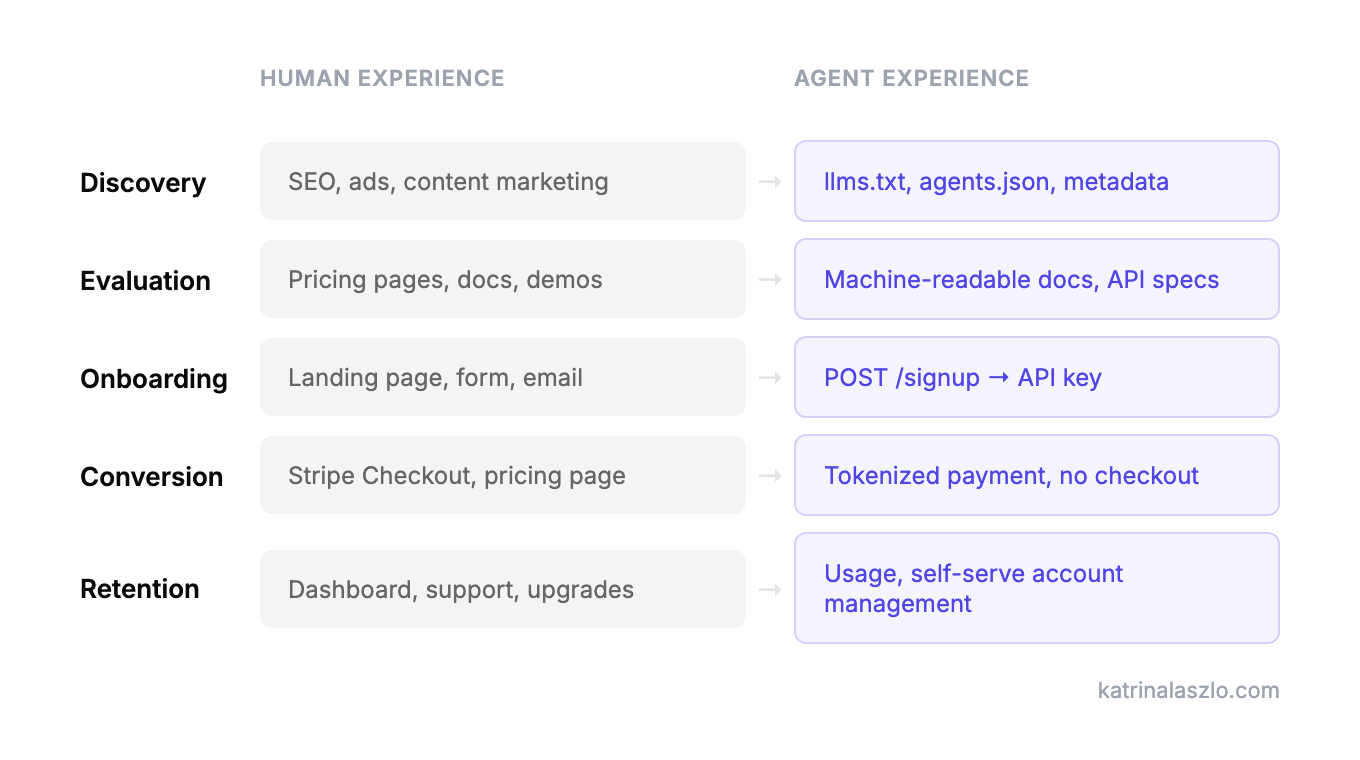
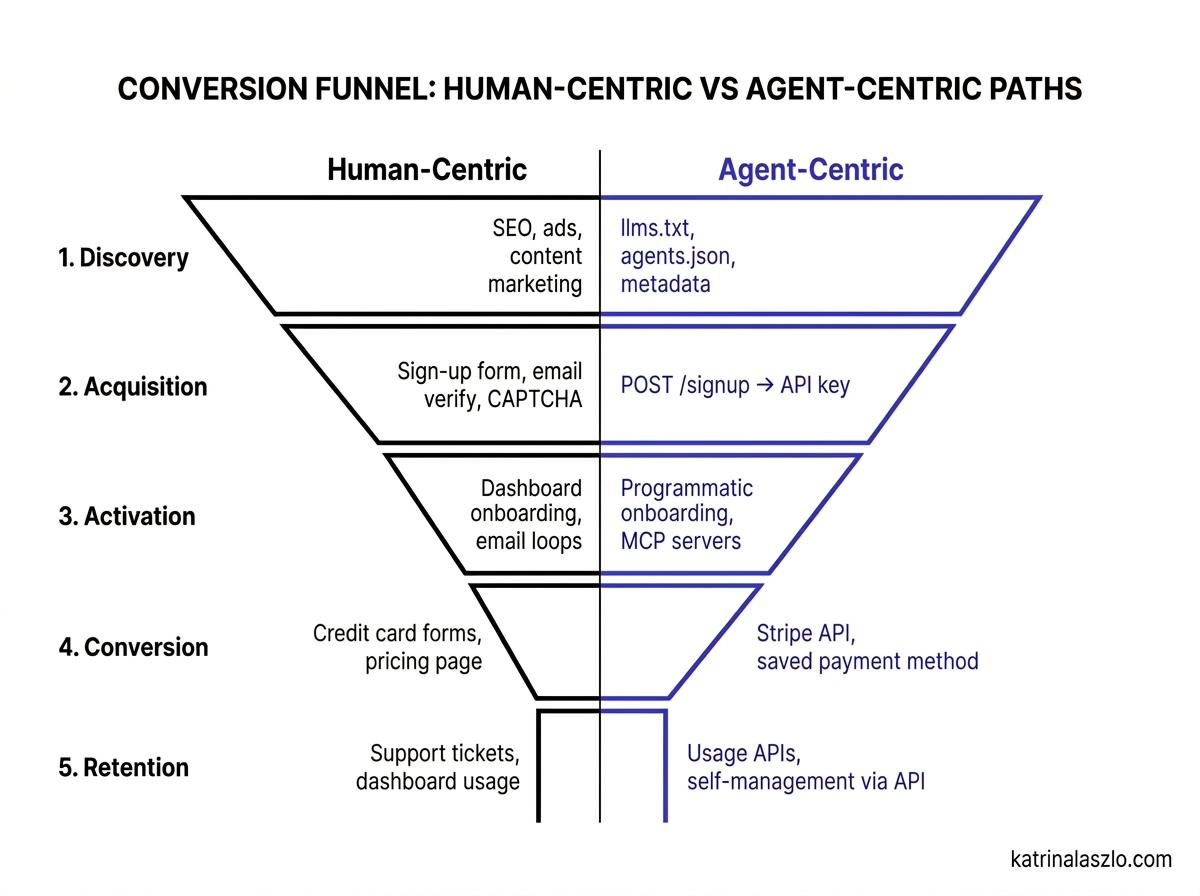
tighten Part 1: cut B2C, rewrite as connected prose, update funnel image
Removed B2C walkthrough and journey shift section to focus on B2B.
Rewrote choppy AI-style sentences as flowing prose with transitions.
Added Netlify/Stripe/Cloudflare data showing agents moving beyond discovery.
Updated funnel image to 5-stage version (Discovery through Retention).
Replaced "tokenized payments" with "Stripe API, saved payment method".

diff --git a/public/blog/agent-self-serve.html b/public/blog/agent-self-serve.html
@@ -4,11 +4,11 @@
 <meta charset="UTF-8">
 <meta name="viewport" content="width=device-width, initial-scale=1.0">
 <title>The Human Behind the Agent — Kat Laszlo</title>
-<meta name="description" content="Agents are reshaping how people buy, but the human is still in the loop. Here's what the experience actually looks like right now, for consumers and for B2B.">
-<meta name="ai:token-count" content="1440">
+<meta name="description" content="Agents are already reshaping how B2B buyers research and choose vendors. What does the self-serve experience need to look like when an agent is the buyer?">
+<meta name="ai:token-count" content="1000">
 <meta name="ai:page-type" content="article">
 <meta property="og:title" content="The Human Behind the Agent">
-<meta property="og:description" content="Agents are reshaping how people buy, but the human is still in the loop. Here's what the experience actually looks like right now, for consumers and for B2B.">
+<meta property="og:description" content="Agents are already reshaping how B2B buyers research and choose vendors. What does the self-serve experience need to look like when an agent is the buyer?">
 <meta property="og:type" content="article">
 <meta property="og:url" content="https://katrinalaszlo.com/blog/agent-self-serve">
 <meta property="og:image" content="/blog/og/agent-self-serve.svg">
@@ -19,7 +19,7 @@
 <meta name="twitter:card" content="summary_large_image">
 <meta name="twitter:site" content="@Katlaszlo">
 <meta name="twitter:title" content="The Human Behind the Agent">
-<meta name="twitter:description" content="Agents are reshaping how people buy, but the human is still in the loop. Here's what the experience actually looks like right now, for consumers and for B2B.">
+<meta name="twitter:description" content="Agents are already reshaping how B2B buyers research and choose vendors. What does the self-serve experience need to look like when an agent is the buyer?">
 <meta name="twitter:image" content="/blog/og/agent-self-serve.svg">
 <link rel="alternate" type="application/rss+xml" title="Kat Laszlo's Blog" href="/blog/feed.xml">
 <link rel="alternate" type="text/plain" href="/llms.txt" title="LLM-optimized content">
@@ -35,7 +35,7 @@
   "@context": "https://schema.org",
   "@type": "Article",
   "headline": "The Human Behind the Agent",
-  "description": "Agents are reshaping how people buy, but the human is still in the loop. Here's what the experience actually looks like right now, for consumers and for B2B.",
+  "description": "Agents are already reshaping how B2B buyers research and choose vendors. What does the self-serve experience need to look like when an agent is the buyer?",
   "image": "/blog/og/agent-self-serve.svg",
   "author": {
     "@type": "Person",
@@ -83,7 +83,7 @@
         </button>
       </div>
     </div>
-    <p>There's a lot of talk about agents buying things. Gartner says agents will intermediate <a href="https://blog.2checkout.com/agentic-commerce-101-what-software-sellers-need-to-know/">$15 trillion in purchases by 2028</a>. Stripe built an <a href="https://stripe.com/blog/developing-an-open-standard-for-agentic-commerce">Agentic Commerce Protocol</a>. Cloudflare lets agents <a href="https://www.infoq.com/news/2026/05/cloudflare-stripe-agent-commerce/">create accounts and deploy apps</a>.</p><p>But what does it actually look like when a person buys something through an agent today? Where is the human? What are they looking at?</p><h2>Consumer today</h2><p><strong>You ask.</strong> Natural language, not keywords. "Best waterproof hiking boots under $200."</p><p><strong>The agent researches.</strong> It synthesizes merchant feeds, reviews, and structured data. Not 10 blue links. ChatGPT processes <a href="https://opascope.com/insights/ai-shopping-assistant-guide-2026-agentic-commerce-protocols/">50 million shopping queries daily</a>.</p><p><strong>You see product cards.</strong> Images, prices, pros and cons, delivery times. Inline in the conversation.</p><p><strong>You click through to buy.</strong> You tap a product, land on the retailer's site, and check out. Most purchases still end this way.</p><p>OpenAI tried in-chat checkout (<a href="https://openai.com/index/buy-it-in-chatgpt/">Instant Checkout</a>, early 2026, powered by Stripe). <a href="https://www.cnbc.com/2026/03/20/open-ai-agentic-shopping-etsy-shopify-walmart-amazon.html">Walmart saw 3x lower conversion</a> inside ChatGPT than on their own site. By March, OpenAI <a href="https://www.cnbc.com/2026/03/24/openai-revamps-shopping-experience-in-chatgpt-after-instant-checkout.html">pulled back to discovery-first</a>: AI handles research, merchants handle checkout. <a href="https://www.perplexity.ai/hub/blog/shop-like-a-pro">Perplexity</a> still has PayPal checkout for a few merchants, but it's the exception.</p><p><strong>Bottom line:</strong> The agent replaced research. The human still decides and pays. The experience after "buy" hasn't changed.</p><h2>B2B software today</h2><p>Most of the change so far has been in the research phase.</p><p><img src="/blog/images/b2b-research-stats.png" alt="B2B research stats: 73% use AI for research, 51% start in chatbot, 69% changed vendor" loading="lazy"></p><p><strong>You ask the agent.</strong> "Best usage-based billing platform for a SaaS with under 100 customers?" You get a synthesized comparison with pros, cons, and pricing.</p><p><strong>You go deeper.</strong> <a href="https://learn.g2.com/ai-search-surging-for-b2b-buyers">55% of buyers</a> use AI to compare vendors. The agent pulls from docs, community discussions, and review sites.</p><p><strong>You leave the chat.</strong> Click through to vendor sites. Sign up for a trial or book a demo. <a href="https://learn.g2.com/ai-search-surging-for-b2b-buyers">47% build business cases with AI</a> before engaging a vendor, but the engagement itself is still human-to-human.</p><p><strong>You buy the way you always have.</strong> Credit card on the pricing page, or a call with sales. If it's enterprise, procurement runs their usual process.</p><p><a href="https://learn.g2.com/ai-search-surging-for-b2b-buyers">69% of buyers chose a different vendor</a> than they initially planned based on AI guidance.</p><p><img src="/blog/images/ai-vs-google-conversion.png" alt="AI search converts at 14.2% vs Google organic at 2.8%" loading="lazy"></p><p>The agent is shaping vendor selection before the human ever visits a website.</p><p><strong>What about coding agents?</strong> Overstated. Neon reports agents <a href="https://www.infoq.com/news/2026/05/cloudflare-stripe-agent-commerce/">create databases at 4x the rate of human developers</a>. But the developer connected Neon's MCP server to Claude Code or Cursor first. The agent uses a tool the human already chose and configured. It provisions faster. It didn't make the vendor decision.</p><h2>How the buyer journey shifted</h2><p><img src="/blog/images/journey-comparison.png" alt="How the buyer journey shifted across B2C, B2B, and dev tools" loading="lazy"></p><p>B2B has a history of following consumer experience. Consumer got easy signup, B2B copied it. That was the entire PLG wave. Consumer got self-serve checkout, B2B added self-serve tiers. Now consumer has agent-mediated research and early in-chat purchasing. The infrastructure being built for consumer (Stripe's ACP was built for ChatGPT shopping) is the same infrastructure B2B will use.</p><p>The research shift happened in about 18 months. It won't take a decade for the next layer to follow.</p><h2>Same funnel, different interface</h2><p>I spent years optimizing self-serve funnels for humans. Conversion rate experiments with Mutiny, analytics on every step from landing page to paid account. The funnel doesn't change when an agent is the intermediary. What changes is what each stage needs.</p><p><img src="/blog/images/funnel-comparison.png" alt="Funnel comparison: human experience vs agent experience at each stage" loading="lazy"></p><p>Same buyer, same criteria. But "easy onboarding" looks completely different when an agent is evaluating on their behalf. A human needs a clean signup page. An agent needs a `POST /signup` that returns an API key. Same goal, different interface.</p><p>Most companies stop at the top layer. They add an llms.txt file and call it done. Why not get a head start on the rest?</p><h2>This series</h2><p>I started running agent-readiness scanners on my own sites (Cloudflare, Fern, agentic-seo) after every deploy. Each tool checked different things, had different output formats, and none of them talked to each other. That got old fast. So I built the tools.</p><p><strong><a href="/blog/agent-commerce-part-2">Part 2: Discovery + AEO</a></strong> covers the top of the funnel, how agents find and evaluate your product, and a tool I built to score it in one command.</p><p><strong><a href="/blog/agent-commerce-part-3">Part 3: Self-Serve</a></strong> covers the rest: onboarding, auth, purchasing, usage monitoring, and self-management. How I wired Tanso for agent self-serve, and an open-source audit that scores any SaaS across all five dimensions.</p>
+    <p>B2B buyers are already using agents to research and choose software. <a href="https://learn.g2.com/ai-search-surging-for-b2b-buyers">73% use AI for vendor research</a>, and <a href="https://learn.g2.com/ai-search-surging-for-b2b-buyers">69% ended up choosing a different vendor</a> than they originally planned based on what the agent recommended. The agent is shaping who wins before the buyer ever visits your website.</p><p>And yet the buying experience itself (signup, onboarding, checkout, account management) hasn't changed at all. It's still built for a human clicking through a browser. So what does it need to look like when the human is buying through an agent?</p><h2>Where we are today</h2><p><img src="/blog/images/b2b-research-stats.png" alt="B2B research stats: 73% use AI for research, 51% start in chatbot, 69% changed vendor" loading="lazy"></p><p>The shift so far has been in research. You ask an agent something like "best usage-based billing platform for a SaaS with under 100 customers?" and you get a synthesized comparison with pros, cons, and pricing. <a href="https://learn.g2.com/ai-search-surging-for-b2b-buyers">55% of buyers</a> are already using AI to compare vendors this way, with the agent pulling from docs, community discussions, and review sites.</p><p>But once the research is done, the experience reverts to what it's always been. You click through to vendor sites, sign up for a trial or book a demo, and pay with a credit card on a pricing page. <a href="https://learn.g2.com/ai-search-surging-for-b2b-buyers">47% build business cases with AI</a> before engaging a vendor, but the engagement itself is still human-to-human.</p><p>So the process looks the same. The outcome doesn't. <a href="https://learn.g2.com/ai-search-surging-for-b2b-buyers">69% of buyers chose a different vendor</a> than they initially planned based on AI guidance.</p><p><img src="/blog/images/ai-vs-google-conversion.png" alt="AI search converts at 14.2% vs Google organic at 2.8%" loading="lazy"></p><p>Right now, agents are having the most impact on that discovery phase, shaping which vendors make the shortlist before a human ever visits a website. But there are signs the rest of the funnel is next. <a href="https://danjcleary.substack.com/p/how-netlify-is-winning-the-age-of">Agents are 80% of new signups at Netlify</a>, up from near zero a year ago. Stripe built an entire <a href="https://stripe.com/blog/developing-an-open-standard-for-agentic-commerce">Agentic Commerce Protocol</a> and is already processing live transactions through it. Cloudflare lets agents <a href="https://www.infoq.com/news/2026/05/cloudflare-stripe-agent-commerce/">create accounts and deploy apps</a> without a human touching a browser.</p><h2>Same funnel, different interface</h2><p>I spent years optimizing self-serve funnels for humans, running conversion rate experiments with Mutiny and Optimizely, tracking analytics on every step from landing page to paid account. The funnel doesn't change when an agent is involved, because the human still wants the same things. What changes is that there's now an intermediary that needs your product's information delivered programmatically so it can evaluate, onboard, and manage on the human's behalf.</p><p><img src="/blog/images/funnel-comparison.png" alt="Funnel comparison: human experience vs agent experience at each stage" loading="lazy"></p><p>The buyer's criteria don't change, but what "easy onboarding" means does. A human needs a clean signup page. An agent needs a `POST /signup` that returns an API key. Same goal, completely different interface.</p><p>Most companies stop at the top layer. They add an llms.txt file and call it done. Why not get a head start on the rest?</p><h2>What's next</h2><p>This is Part 1 of a series on PLG for the agent era. The next two posts go deeper into the funnel:</p><p><strong>Part 2: Discovery + AEO</strong> covers how agents find and evaluate your product, what they look for, and how to measure whether you're showing up.</p><p><strong>Part 3: Self-Serve</strong> covers what I changed when I wired Tanso for agent self-serve, what the industry recommends vs what actually worked, and an open-source audit to score any SaaS across the full funnel.</p>
   </article>
 
 

diff --git a/public/blog/agent-self-serve.md b/public/blog/agent-self-serve.md
@@ -3,74 +3,44 @@ title: "The Human Behind the Agent"
 series: "PLG for the Agent Era"
 part: 1
 date: 2026-05-26
-description: "Agents are reshaping how people buy, but the human is still in the loop. Here's what the experience actually looks like right now, for consumers and for B2B."
+description: "Agents are already reshaping how B2B buyers research and choose vendors. What does the self-serve experience need to look like when an agent is the buyer?"
 author: Kat Laszlo
 ---
 
 # The Human Behind the Agent
 
-There's a lot of talk about agents buying things. Gartner says agents will intermediate [$15 trillion in purchases by 2028](https://blog.2checkout.com/agentic-commerce-101-what-software-sellers-need-to-know/). Stripe built an [Agentic Commerce Protocol](https://stripe.com/blog/developing-an-open-standard-for-agentic-commerce). Cloudflare lets agents [create accounts and deploy apps](https://www.infoq.com/news/2026/05/cloudflare-stripe-agent-commerce/).
+B2B buyers are already using agents to research and choose software. [73% use AI for vendor research](https://learn.g2.com/ai-search-surging-for-b2b-buyers), and [69% ended up choosing a different vendor](https://learn.g2.com/ai-search-surging-for-b2b-buyers) than they originally planned based on what the agent recommended. The agent is shaping who wins before the buyer ever visits your website.
 
-But what does it actually look like when a person buys something through an agent today? Where is the human? What are they looking at?
+And yet the buying experience itself (signup, onboarding, checkout, account management) hasn't changed at all. It's still built for a human clicking through a browser. So what does it need to look like when the human is buying through an agent?
 
-## Consumer today
-
-**You ask.** Natural language, not keywords. "Best waterproof hiking boots under $200."
-
-**The agent researches.** It synthesizes merchant feeds, reviews, and structured data. Not 10 blue links. ChatGPT processes [50 million shopping queries daily](https://opascope.com/insights/ai-shopping-assistant-guide-2026-agentic-commerce-protocols/).
-
-**You see product cards.** Images, prices, pros and cons, delivery times. Inline in the conversation.
-
-**You click through to buy.** You tap a product, land on the retailer's site, and check out. Most purchases still end this way.
-
-OpenAI tried in-chat checkout ([Instant Checkout](https://openai.com/index/buy-it-in-chatgpt/), early 2026, powered by Stripe). [Walmart saw 3x lower conversion](https://www.cnbc.com/2026/03/20/open-ai-agentic-shopping-etsy-shopify-walmart-amazon.html) inside ChatGPT than on their own site. By March, OpenAI [pulled back to discovery-first](https://www.cnbc.com/2026/03/24/openai-revamps-shopping-experience-in-chatgpt-after-instant-checkout.html): AI handles research, merchants handle checkout. [Perplexity](https://www.perplexity.ai/hub/blog/shop-like-a-pro) still has PayPal checkout for a few merchants, but it's the exception.
-
-**Bottom line:** The agent replaced research. The human still decides and pays. The experience after "buy" hasn't changed.
-
-## B2B software today
-
-Most of the change so far has been in the research phase.
+## Where we are today
 
 ![B2B research stats: 73% use AI for research, 51% start in chatbot, 69% changed vendor](/blog/images/b2b-research-stats.png)
 
-**You ask the agent.** "Best usage-based billing platform for a SaaS with under 100 customers?" You get a synthesized comparison with pros, cons, and pricing.
+The shift so far has been in research. You ask an agent something like "best usage-based billing platform for a SaaS with under 100 customers?" and you get a synthesized comparison with pros, cons, and pricing. [55% of buyers](https://learn.g2.com/ai-search-surging-for-b2b-buyers) are already using AI to compare vendors this way, with the agent pulling from docs, community discussions, and review sites.
 
-**You go deeper.** [55% of buyers](https://learn.g2.com/ai-search-surging-for-b2b-buyers) use AI to compare vendors. The agent pulls from docs, community discussions, and review sites.
+But once the research is done, the experience reverts to what it's always been. You click through to vendor sites, sign up for a trial or book a demo, and pay with a credit card on a pricing page. [47% build business cases with AI](https://learn.g2.com/ai-search-surging-for-b2b-buyers) before engaging a vendor, but the engagement itself is still human-to-human.
 
-**You leave the chat.** Click through to vendor sites. Sign up for a trial or book a demo. [47% build business cases with AI](https://learn.g2.com/ai-search-surging-for-b2b-buyers) before engaging a vendor, but the engagement itself is still human-to-human.
-
-**You buy the way you always have.** Credit card on the pricing page, or a call with sales. If it's enterprise, procurement runs their usual process.
-
-[69% of buyers chose a different vendor](https://learn.g2.com/ai-search-surging-for-b2b-buyers) than they initially planned based on AI guidance.
+So the process looks the same. The outcome doesn't. [69% of buyers chose a different vendor](https://learn.g2.com/ai-search-surging-for-b2b-buyers) than they initially planned based on AI guidance.
 
 ![AI search converts at 14.2% vs Google organic at 2.8%](/blog/images/ai-vs-google-conversion.png)
 
-The agent is shaping vendor selection before the human ever visits a website.
-
-**What about coding agents?** Overstated. Neon reports agents [create databases at 4x the rate of human developers](https://www.infoq.com/news/2026/05/cloudflare-stripe-agent-commerce/). But the developer connected Neon's MCP server to Claude Code or Cursor first. The agent uses a tool the human already chose and configured. It provisions faster. It didn't make the vendor decision.
-
-## How the buyer journey shifted
-
-![How the buyer journey shifted across B2C, B2B, and dev tools](/blog/images/journey-comparison.png)
-
-B2B has a history of following consumer experience. Consumer got easy signup, B2B copied it. That was the entire PLG wave. Consumer got self-serve checkout, B2B added self-serve tiers. Now consumer has agent-mediated research and early in-chat purchasing. The infrastructure being built for consumer (Stripe's ACP was built for ChatGPT shopping) is the same infrastructure B2B will use.
-
-The research shift happened in about 18 months. It won't take a decade for the next layer to follow.
+Right now, agents are having the most impact on that discovery phase, shaping which vendors make the shortlist before a human ever visits a website. But there are signs the rest of the funnel is next. [Agents are 80% of new signups at Netlify](https://danjcleary.substack.com/p/how-netlify-is-winning-the-age-of), up from near zero a year ago. Stripe built an entire [Agentic Commerce Protocol](https://stripe.com/blog/developing-an-open-standard-for-agentic-commerce) and is already processing live transactions through it. Cloudflare lets agents [create accounts and deploy apps](https://www.infoq.com/news/2026/05/cloudflare-stripe-agent-commerce/) without a human touching a browser.
 
 ## Same funnel, different interface
 
-I spent years optimizing self-serve funnels for humans. Conversion rate experiments with Mutiny, analytics on every step from landing page to paid account. The funnel doesn't change when an agent is the intermediary. What changes is what each stage needs.
+I spent years optimizing self-serve funnels for humans, running conversion rate experiments with Mutiny and Optimizely, tracking analytics on every step from landing page to paid account. The funnel doesn't change when an agent is involved, because the human still wants the same things. What changes is that there's now an intermediary that needs your product's information delivered programmatically so it can evaluate, onboard, and manage on the human's behalf.
 
 ![Funnel comparison: human experience vs agent experience at each stage](/blog/images/funnel-comparison.png)
 
-Same buyer, same criteria. But "easy onboarding" looks completely different when an agent is evaluating on their behalf. A human needs a clean signup page. An agent needs a `POST /signup` that returns an API key. Same goal, different interface.
+The buyer's criteria don't change, but what "easy onboarding" means does. A human needs a clean signup page. An agent needs a `POST /signup` that returns an API key. Same goal, completely different interface.
 
 Most companies stop at the top layer. They add an llms.txt file and call it done. Why not get a head start on the rest?
 
-## This series
+## What's next
 
-I started running agent-readiness scanners on my own sites (Cloudflare, Fern, agentic-seo) after every deploy. Each tool checked different things, had different output formats, and none of them talked to each other. That got old fast. So I built the tools.
+This is Part 1 of a series on PLG for the agent era. The next two posts go deeper into the funnel:
 
-**[Part 2: Discovery + AEO](/blog/agent-commerce-part-2)** covers the top of the funnel, how agents find and evaluate your product, and a tool I built to score it in one command.
+**Part 2: Discovery + AEO** covers how agents find and evaluate your product, what they look for, and how to measure whether you're showing up.
 
-**[Part 3: Self-Serve](/blog/agent-commerce-part-3)** covers the rest: onboarding, auth, purchasing, usage monitoring, and self-management. How I wired Tanso for agent self-serve, and an open-source audit that scores any SaaS across all five dimensions.
+**Part 3: Self-Serve** covers what I changed when I wired Tanso for agent self-serve, what the industry recommends vs what actually worked, and an open-source audit to score any SaaS across the full funnel.
